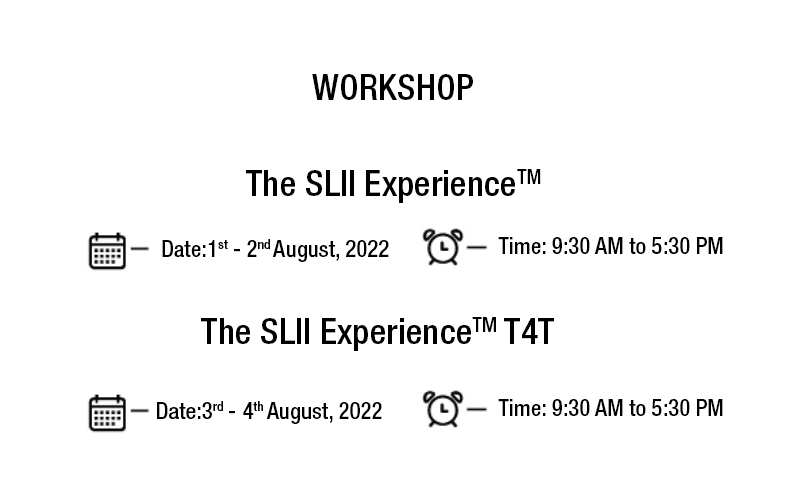
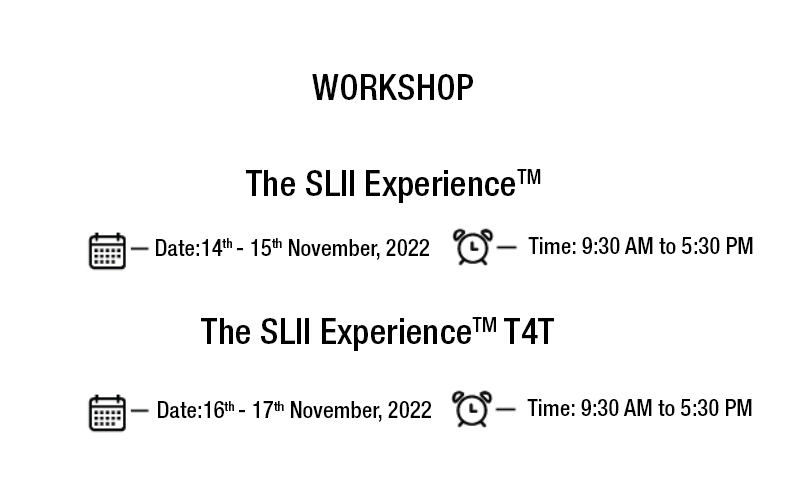
cc

Changed region(s): [[0.1875, 0.7831, 0.9375, 0.8735], [0.1875, 0.4518, 0.9688, 0.5422]]

diff --git a/pages/lp/slx-lp.js b/pages/lp/slx-lp.js
@@ -101,8 +101,8 @@ export default function HybridWorkplaces() {
                            <label>Interested In*</label>
                            <select name="interest_in" className="form-control" required>
                               <option value="">---Select---</option>
-                              <option value="The SLII Experience™: 1st to 2nd August , 2022">The SLII Experience™: 1st to 2nd August , 2022</option>
-                              <option value="The SLII Experience™ T4T: 3rd to 04 August , 2022">The SLII Experience™ T4T: 3rd to 04 August , 2022</option>
+                              <option value="The SLII Experience™ Training for Trainers (T4T) 14th to 15th November, 2022">The SLII Experience™ Training for Trainers (T4T) 14th to 15th November, 2022</option>
+                              <option value="The SLII Experience™ Training for Trainers (T4T) 16th to 17th November, 2022">The SLII Experience™ Training for Trainers (T4T) 16th to 17th November, 2022</option>
                            </select>
                            <div className="help-block with-errors"></div>
                         </div>
